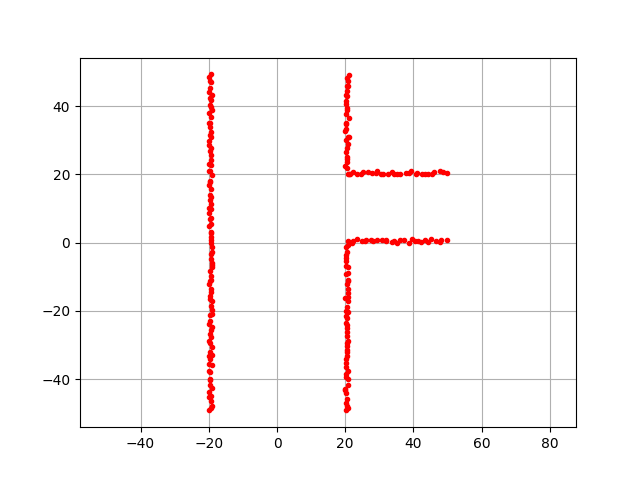
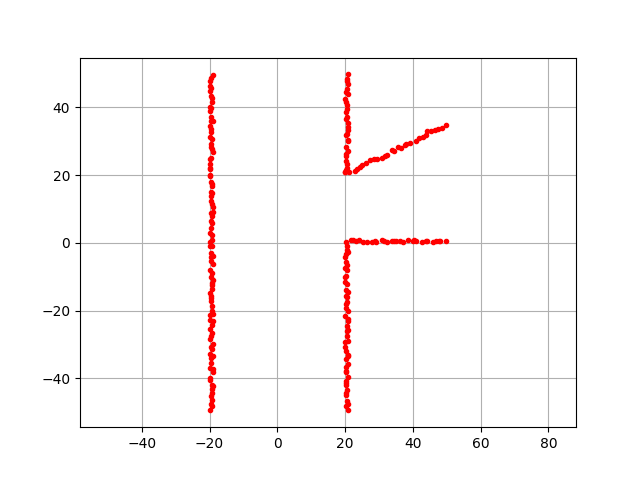
Adding ndt mapping script and doc

diff --git a/Mapping/grid_map_lib/grid_map_lib.py b/Mapping/grid_map_lib/grid_map_lib.py
@@ -5,9 +5,29 @@ Grid map library in python
 author: Atsushi Sakai
 
 """
-
+from functools import total_ordering
 import matplotlib.pyplot as plt
 import numpy as np
+
+
+@total_ordering
+class FloatGrid:
+
+    def __init__(self, init_val=0.0):
+        self.data = init_val
+
+    def get_float_data(self):
+        return self.data
+
+    def __eq__(self, other):
+        if not isinstance(other, FloatGrid):
+            return NotImplemented
+        return self.get_float_data() == other.get_float_data()
+
+    def __lt__(self, other):
+        if not isinstance(other, FloatGrid):
+            return NotImplemented
+        return self.get_float_data() < other.get_float_data()
 
 
 class GridMap:
@@ -16,11 +36,11 @@ class GridMap:
     """
 
     def __init__(self, width, height, resolution,
-                 center_x, center_y, init_val=0.0):
+                 center_x, center_y, init_val=FloatGrid(0.0)):
         """__init__
 
         :param width: number of grid for width
-        :param height: number of grid for heigt
+        :param height: number of grid for height
         :param resolution: grid resolution [m]
         :param center_x: center x position  [m]
         :param center_y: center y position [m]
@@ -37,6 +57,7 @@ class GridMap:
 
         self.n_data = self.width * self.height
         self.data = [init_val] * self.n_data
+        self.data_type = type(init_val)
 
     def get_value_from_xy_index(self, x_ind, y_ind):
         """get_value_from_xy_index
@@ -101,7 +122,7 @@ class GridMap:
 
         grid_ind = int(y_ind * self.width + x_ind)
 
-        if 0 <= grid_ind < self.n_data:
+        if 0 <= grid_ind < self.n_data and isinstance(val, self.data_type):
             self.data[grid_ind] = val
             return True  # OK
         else:
@@ -156,39 +177,40 @@ class GridMap:
         else:
             return None
 
-    def check_occupied_from_xy_index(self, xind, yind, occupied_val=1.0):
+    def check_occupied_from_xy_index(self, x_ind, y_ind, occupied_val):
 
-        val = self.get_value_from_xy_index(xind, yind)
+        val = self.get_value_from_xy_index(x_ind, y_ind)
 
         if val is None or val >= occupied_val:
             return True
         else:
             return False
 
-    def expand_grid(self):
-        xinds, yinds = [], []
+    def expand_grid(self, occupied_val=FloatGrid(1.0)):
+        x_inds, y_inds, values = [], [], []
 
         for ix in range(self.width):
             for iy in range(self.height):
-                if self.check_occupied_from_xy_index(ix, iy):
-                    xinds.append(ix)
-                    yinds.append(iy)
+                if self.check_occupied_from_xy_index(ix, iy, occupied_val):
+                    x_inds.append(ix)
+                    y_inds.append(iy)
+                    values.append(self.get_value_from_xy_index(ix, iy))
 
-        for (ix, iy) in zip(xinds, yinds):
-            self.set_value_from_xy_index(ix + 1, iy, val=1.0)
-            self.set_value_from_xy_index(ix, iy + 1, val=1.0)
-            self.set_value_from_xy_index(ix + 1, iy + 1, val=1.0)
-            self.set_value_from_xy_index(ix - 1, iy, val=1.0)
-            self.set_value_from_xy_index(ix, iy - 1, val=1.0)
-            self.set_value_from_xy_index(ix - 1, iy - 1, val=1.0)
+        for (ix, iy, value) in zip(x_inds, y_inds, values):
+            self.set_value_from_xy_index(ix + 1, iy, val=value)
+            self.set_value_from_xy_index(ix, iy + 1, val=value)
+            self.set_value_from_xy_index(ix + 1, iy + 1, val=value)
+            self.set_value_from_xy_index(ix - 1, iy, val=value)
+            self.set_value_from_xy_index(ix, iy - 1, val=value)
+            self.set_value_from_xy_index(ix - 1, iy - 1, val=value)
 
     @staticmethod
     def check_inside_polygon(iox, ioy, x, y):
 
-        npoint = len(x) - 1
+        n_point = len(x) - 1
         inside = False
-        for i1 in range(npoint):
-            i2 = (i1 + 1) % (npoint + 1)
+        for i1 in range(n_point):
+            i2 = (i1 + 1) % (n_point + 1)
 
             if x[i1] >= x[i2]:
                 min_x, max_x = x[i2], x[i1]
@@ -214,24 +236,23 @@ class GridMap:
         print("n_data:", self.n_data)
 
     def plot_grid_map(self, ax=None):
-
-        grid_data = np.reshape(np.array(self.data), (self.height, self.width))
+        float_data_array = np.array([d.get_float_data() for d in self.data])
+        grid_data = np.reshape(float_data_array, (self.height, self.width))
         if not ax:
             fig, ax = plt.subplots()
         heat_map = ax.pcolor(grid_data, cmap="Blues", vmin=0.0, vmax=1.0)
         plt.axis("equal")
-        # plt.show()
 
         return heat_map
 
 
-def test_polygon_set():
+def polygon_set_demo():
     ox = [0.0, 4.35, 20.0, 50.0, 100.0, 130.0, 40.0]
     oy = [0.0, -4.15, -20.0, 0.0, 30.0, 60.0, 80.0]
 
     grid_map = GridMap(600, 290, 0.7, 60.0, 30.5)
 
-    grid_map.set_value_from_polygon(ox, oy, 1.0, inside=False)
+    grid_map.set_value_from_polygon(ox, oy, FloatGrid(1.0), inside=False)
 
     grid_map.plot_grid_map()
 
@@ -239,24 +260,27 @@ def test_polygon_set():
     plt.grid(True)
 
 
-def test_position_set():
+def position_set_demo():
     grid_map = GridMap(100, 120, 0.5, 10.0, -0.5)
 
-    grid_map.set_value_from_xy_pos(10.1, -1.1, 1.0)
-    grid_map.set_value_from_xy_pos(10.1, -0.1, 1.0)
-    grid_map.set_value_from_xy_pos(10.1, 1.1, 1.0)
-    grid_map.set_value_from_xy_pos(11.1, 0.1, 1.0)
-    grid_map.set_value_from_xy_pos(10.1, 0.1, 1.0)
-    grid_map.set_value_from_xy_pos(9.1, 0.1, 1.0)
+    grid_map.set_value_from_xy_pos(10.1, -1.1, FloatGrid(1.0))
+    grid_map.set_value_from_xy_pos(10.1, -0.1, FloatGrid(1.0))
+    grid_map.set_value_from_xy_pos(10.1, 1.1, FloatGrid(1.0))
+    grid_map.set_value_from_xy_pos(11.1, 0.1, FloatGrid(1.0))
+    grid_map.set_value_from_xy_pos(10.1, 0.1, FloatGrid(1.0))
+    grid_map.set_value_from_xy_pos(9.1, 0.1, FloatGrid(1.0))
 
     grid_map.plot_grid_map()
+
+    plt.axis("equal")
+    plt.grid(True)
 
 
 def main():
     print("start!!")
 
-    test_position_set()
-    test_polygon_set()
+    position_set_demo()
+    polygon_set_demo()
 
     plt.show()
 

diff --git a/PathPlanning/GridBasedSweepCPP/grid_based_sweep_coverage_path_planner.py b/PathPlanning/GridBasedSweepCPP/grid_based_sweep_coverage_path_planner.py
@@ -13,7 +13,7 @@ import pathlib
 sys.path.append(str(pathlib.Path(__file__).parent.parent.parent))
 
 from utils.angle import rot_mat_2d
-from Mapping.grid_map_lib.grid_map_lib import GridMap
+from Mapping.grid_map_lib.grid_map_lib import GridMap, FloatGrid
 
 do_animation = True
 
@@ -41,8 +41,7 @@ class SweepSearcher:
         n_y_index = c_y_index
 
         # found safe grid
-        if not grid_map.check_occupied_from_xy_index(n_x_index, n_y_index,
-                                                     occupied_val=0.5):
+        if not self.check_occupied(n_x_index, n_y_index, grid_map):
             return n_x_index, n_y_index
         else:  # occupied
             next_c_x_index, next_c_y_index = self.find_safe_turning_grid(
@@ -51,18 +50,19 @@ class SweepSearcher:
                 # moving backward
                 next_c_x_index = -self.moving_direction + c_x_index
                 next_c_y_index = c_y_index
-                if grid_map.check_occupied_from_xy_index(next_c_x_index,
-                                                         next_c_y_index):
+                if self.check_occupied(next_c_x_index, next_c_y_index, grid_map):
                     # moved backward, but the grid is occupied by obstacle
                     return None, None
             else:
                 # keep moving until end
-                while not grid_map.check_occupied_from_xy_index(
-                        next_c_x_index + self.moving_direction,
-                        next_c_y_index, occupied_val=0.5):
+                while not self.check_occupied(next_c_x_index + self.moving_direction, next_c_y_index, grid_map):
                     next_c_x_index += self.moving_direction
                 self.swap_moving_direction()
             return next_c_x_index, next_c_y_index
+
+    @staticmethod
+    def check_occupied(c_x_index, c_y_index, grid_map):
+        return grid_map.check_occupied_from_xy_index(c_x_index, c_y_index, FloatGrid(0.5))
 
     def find_safe_turning_grid(self, c_x_index, c_y_index, grid_map):
 
@@ -72,17 +72,14 @@ class SweepSearcher:
             next_y_ind = d_y_ind + c_y_index
 
             # found safe grid
-            if not grid_map.check_occupied_from_xy_index(next_x_ind,
-                                                         next_y_ind,
-                                                         occupied_val=0.5):
+            if not self.check_occupied(next_x_ind, next_y_ind, grid_map):
                 return next_x_ind, next_y_ind
 
         return None, None
 
     def is_search_done(self, grid_map):
         for ix in self.x_indexes_goal_y:
-            if not grid_map.check_occupied_from_xy_index(ix, self.goal_y,
-                                                         occupied_val=0.5):
+            if not self.check_occupied(ix, self.goal_y, grid_map):
                 return False
 
         # all lower grid is occupied
@@ -168,7 +165,7 @@ def search_free_grid_index_at_edge_y(grid_map, from_upper=False):
 
     for iy in x_range:
         for ix in y_range:
-            if not grid_map.check_occupied_from_xy_index(ix, iy):
+            if not SweepSearcher.check_occupied(ix, iy, grid_map):
                 y_index = iy
                 x_indexes.append(ix)
         if y_index:
@@ -185,7 +182,7 @@ def setup_grid_map(ox, oy, resolution, sweep_direction, offset_grid=10):
 
     grid_map = GridMap(width, height, resolution, center_x, center_y)
     grid_map.print_grid_map_info()
-    grid_map.set_value_from_polygon(ox, oy, 1.0, inside=False)
+    grid_map.set_value_from_polygon(ox, oy, FloatGrid(1.0), inside=False)
     grid_map.expand_grid()
 
     x_inds_goal_y = []
@@ -203,7 +200,7 @@ def setup_grid_map(ox, oy, resolution, sweep_direction, offset_grid=10):
 def sweep_path_search(sweep_searcher, grid_map, grid_search_animation=False):
     # search start grid
     c_x_index, c_y_index = sweep_searcher.search_start_grid(grid_map)
-    if not grid_map.set_value_from_xy_index(c_x_index, c_y_index, 0.5):
+    if not grid_map.set_value_from_xy_index(c_x_index, c_y_index, FloatGrid(0.5)):
         print("Cannot find start grid")
         return [], []
 
@@ -235,7 +232,7 @@ def sweep_path_search(sweep_searcher, grid_map, grid_search_animation=False):
         px.append(x)
         py.append(y)
 
-        grid_map.set_value_from_xy_index(c_x_index, c_y_index, 0.5)
+        grid_map.set_value_from_xy_index(c_x_index, c_y_index, FloatGrid(0.5))
 
         if grid_search_animation:
             grid_map.plot_grid_map(ax=ax)

diff --git a/Mapping/ndt_map/ndt_map.py b/Mapping/ndt_map/ndt_map.py
@@ -31,7 +31,7 @@ def create_dummy_observation_data():
     # right corridor 3
     for x in range(20, 50):
         ox.append(x)
-        oy.append(20.0)
+        oy.append(x/2.0+10)
     # right corridor 4
     for y in range(20, 50):
         ox.append(20)

diff --git a/docs/modules/mapping/mapping_main.rst b/docs/modules/mapping/mapping_main.rst
@@ -7,6 +7,7 @@ Mapping
    :caption: Contents
 
    gaussian_grid_map/gaussian_grid_map
+   ndt_map/ndt_map
    ray_casting_grid_map/ray_casting_grid_map
    lidar_to_grid_map_tutorial/lidar_to_grid_map_tutorial
    point_cloud_sampling/point_cloud_sampling

diff --git a/docs/modules/mapping/ndt_mapping/ndt_map_main.rst b/docs/modules/mapping/ndt_mapping/ndt_map_main.rst
@@ -1,4 +1,4 @@
-.. _ndt_mapping:
+.. _ndt_mapp:
 
 Normal Distance Transform(NDT) map
 -------------------------------
